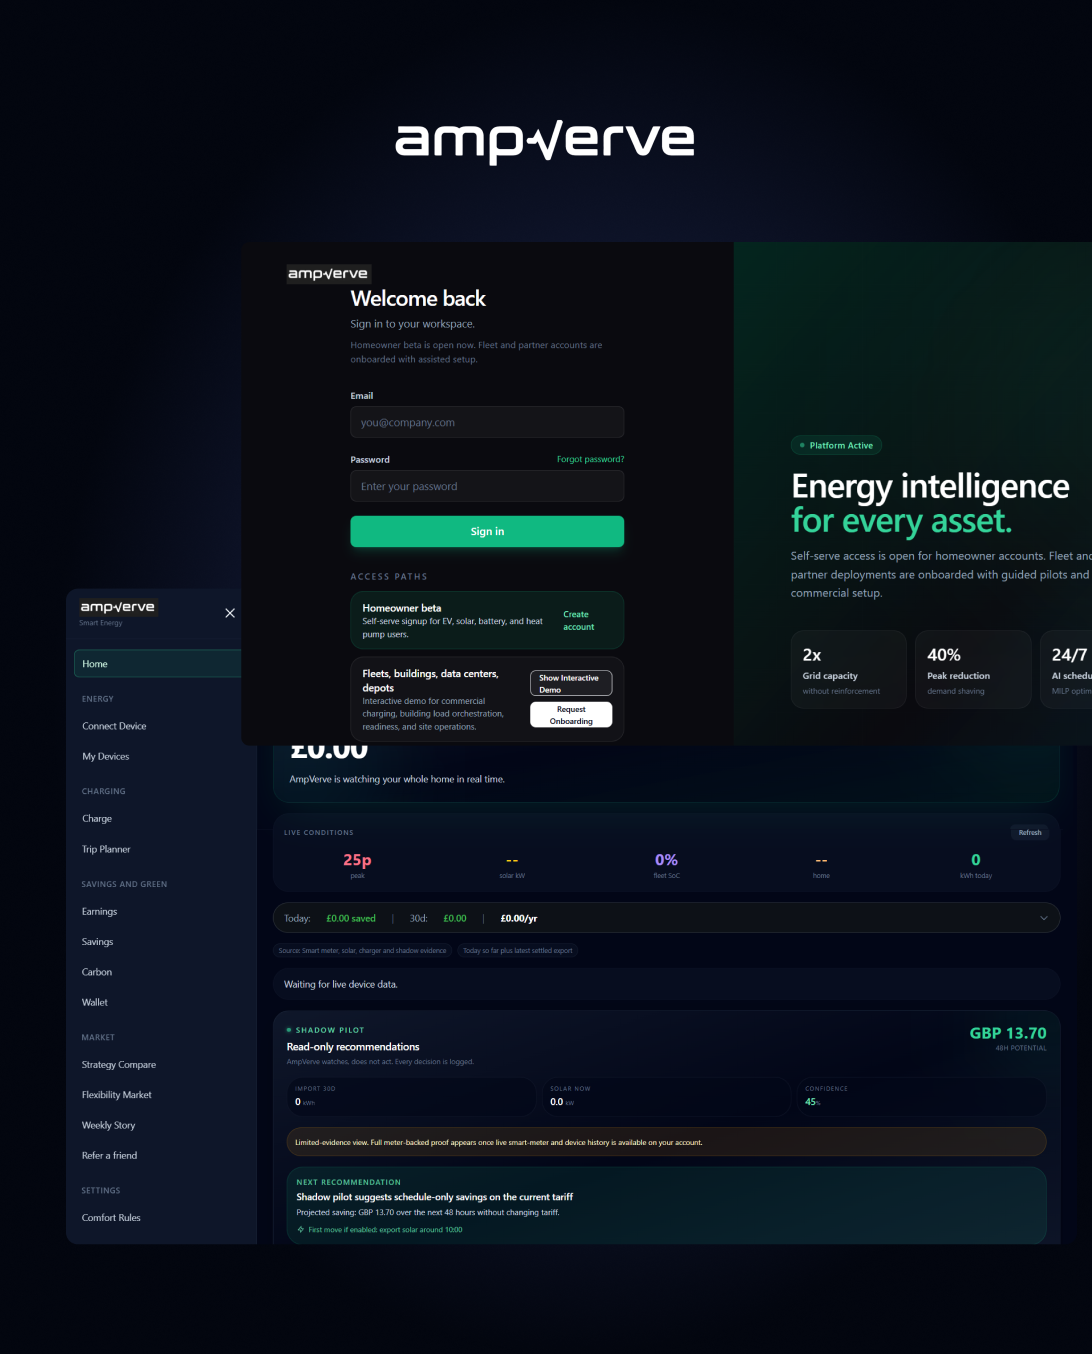
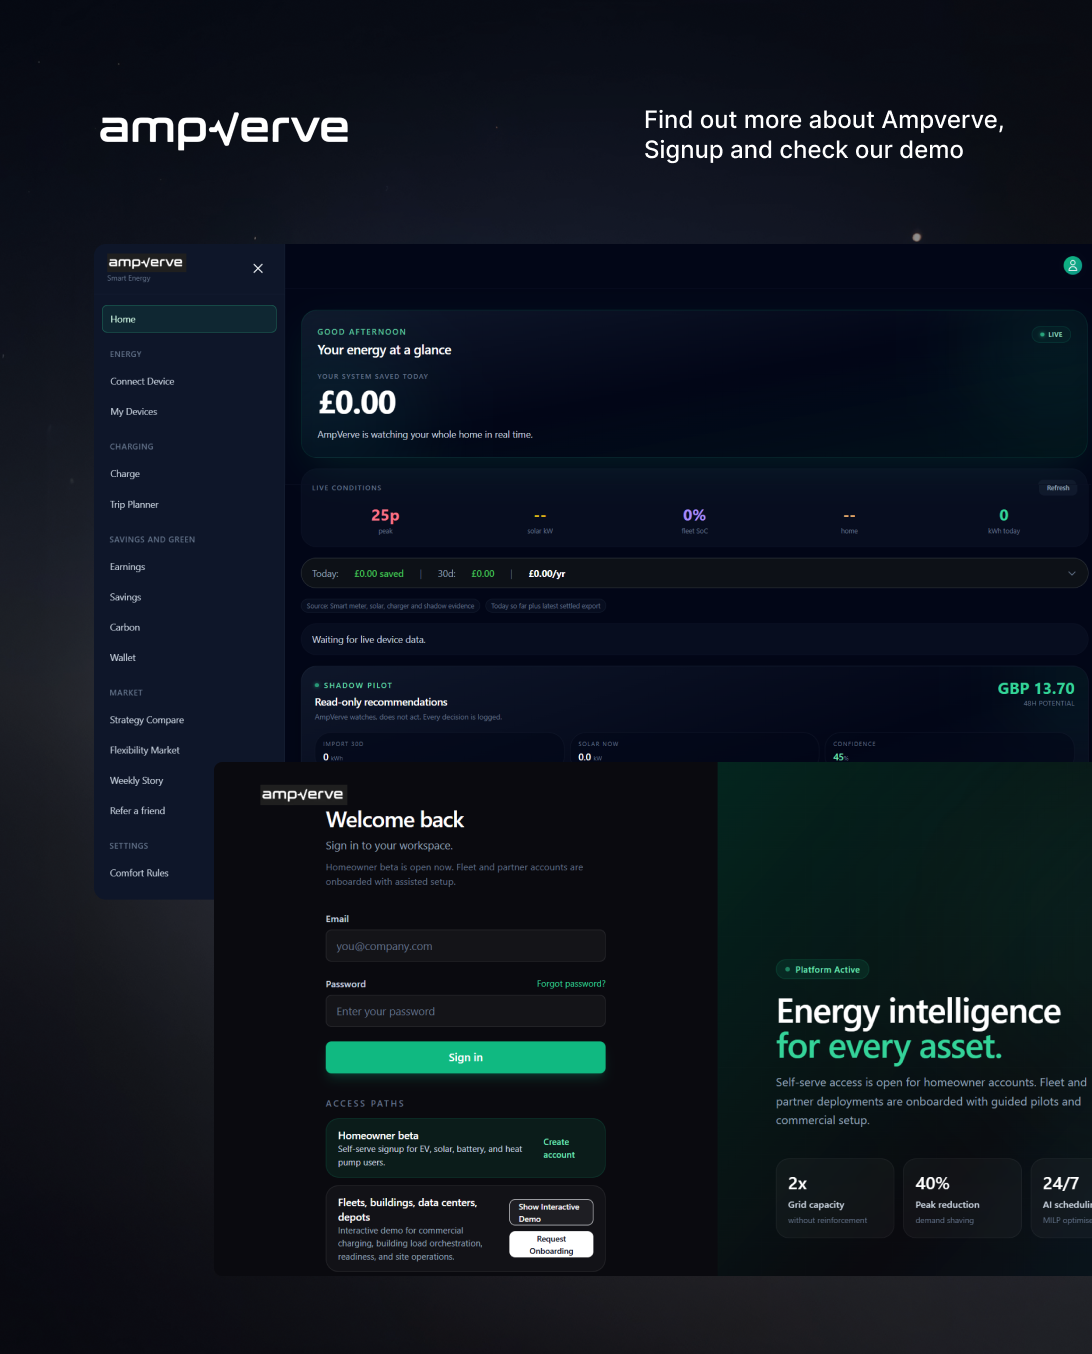
Images Changed

diff --git a/product.html b/product.html
@@ -203,7 +203,7 @@
         </div>
       </div>
       <div class="software-visual">
-        <img src="assets/Ampverve.png" alt="AmpVerve software dashboard">
+        <img src="assets/Fleets earning.png" alt="AmpVerve fleet earnings dashboard">
       </div>
 
        <!-- <div class="software-steps-visual">
@@ -370,7 +370,7 @@
             See how AmpVerve can help you reduce costs, maximise flexibility, and take control of
             your energy operations.
           </p>
-          <a class="btn btn-coral" href="https://www.ampverve.com/" target="_blank" rel="noopener">
+          <a class="btn btn-coral" href="https://www.ampverve.com/contact-us/" target="_blank" rel="noopener">
             Book a demo
           </a>
         </div>
@@ -648,8 +648,8 @@
                 <p>SSEN flexibility tender windows run throughout the year. AmpVerve is a registered SSEN provider under VAOU.WA. Your assets could be bidding within two weeks.</p>
               </div>
 
-              <a class="btn btn-coral btn-full" href="https://www.ampverve.com/">Get a verified estimate</a>
-              <a class="fleet-outline-btn" href="https://www.ampverve.com/">Talk to us directly</a>
+              <a class="btn btn-coral btn-full" href="https://www.ampverve.com/contact-us/">Get a verified estimate</a>
+              <a class="fleet-outline-btn" href="https://www.ampverve.com/contact-us/">Talk to us directly</a>
 
               <p class="fleet-summary-footnote">This calculator uses average UK flexibility market rates and estimated dispatch factors. Actual revenue depends on your specific asset configuration, DNO territory, availability windows and market conditions.</p>
             </article>

diff --git a/index.html b/index.html
@@ -419,8 +419,8 @@
                 <p>SSEN flexibility tender windows run throughout the year. AmpVerve is a registered SSEN provider under VAOU.WA. Your assets could be bidding within two weeks.</p>
               </div>
 
-              <a class="btn btn-coral btn-full" href="https://www.ampverve.com/">Get a verified estimate</a>
-              <a class="fleet-outline-btn" href="https://www.ampverve.com/">Talk to us directly</a>
+              <a class="btn btn-coral btn-full" href="https://www.ampverve.com/contact-us/">Get a verified estimate</a>
+              <a class="fleet-outline-btn" href="https://www.ampverve.com/contact-us/">Talk to us directly</a>
 
               <p class="fleet-summary-footnote">This calculator uses average UK flexibility market rates and estimated dispatch factors. Actual revenue depends on your specific asset configuration, DNO territory, availability windows and market conditions.</p>
             </article>
